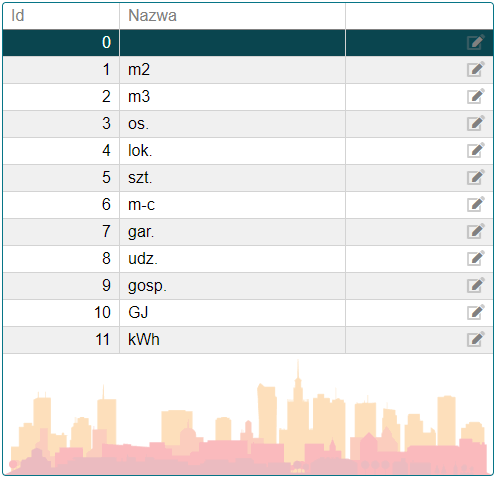
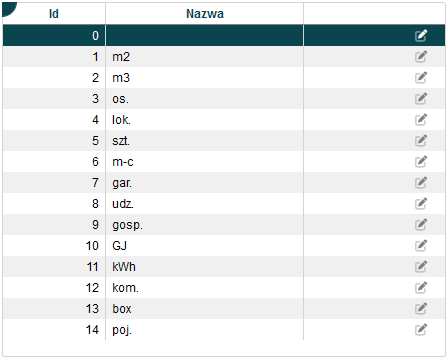
popr instr dod jedns

diff --git a/administracyjne/stawki/_posts/2020-07-29-Dodanie jednostki do systemu.md b/administracyjne/stawki/_posts/2020-07-29-Dodanie jednostki do systemu.md
@@ -4,6 +4,10 @@ title: Dodanie jednostki do systemu
 
 # Dodanie jednostki do systemu
 
+Jednostki możemy ustawić jako miano stawki. Jednostki dodajemy tylko raz. Nie zmieniamy nazw oraz kolejności jednostek w oknie, raz dodana jednostka musi pozostać ze stałym ID i nazwą. Poniżej przykładowe jednostki najczęściej wykorzystywane.
+
+![Przykładowe jednostki](przykladjednostka.png)
+
 Aby dodać jednostkę, która będzie używana w mianie stawki, należy:
 
 - Zakładka `Zasoby` > menu `Elementy` > `Jednostki`.
@@ -13,7 +17,3 @@ Aby dodać jednostkę, która będzie używana w mianie stawki, należy:
 - Kliknąć: `Zatwierdź`.
 
 ![Dodanie jednostki](dodaniejednostki.gif)
-
-Jednostki dodajemy tylko raz. Poniżej przykładowe jednostki najczęściej wykorzystywane.
-
-![Przykładowe jednostki](przykladjednostka.png)
